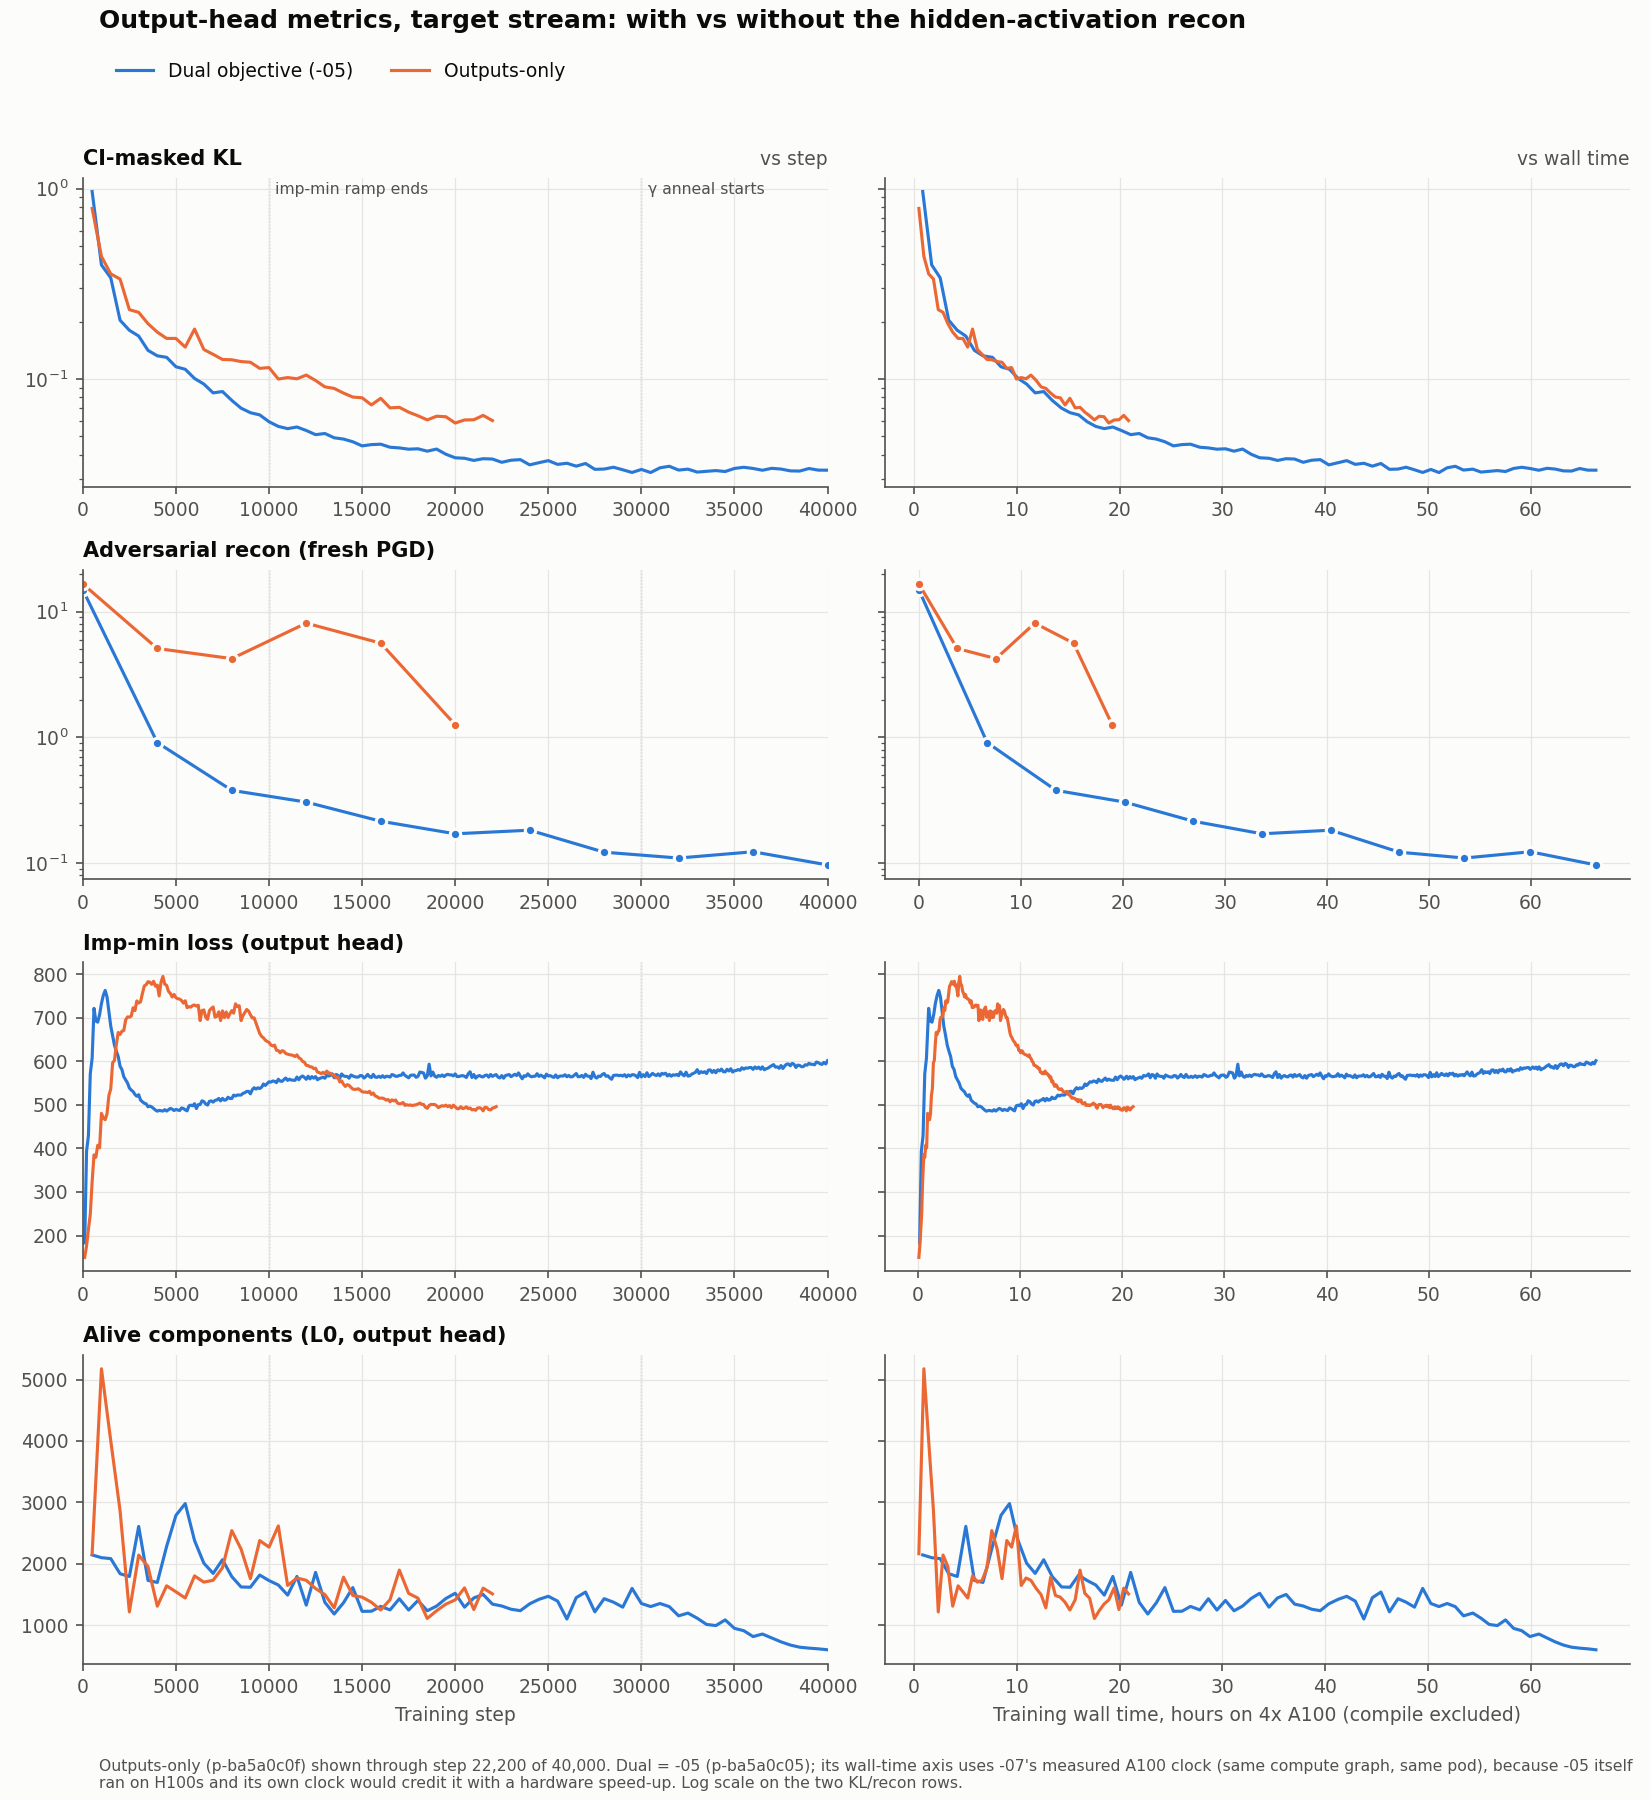
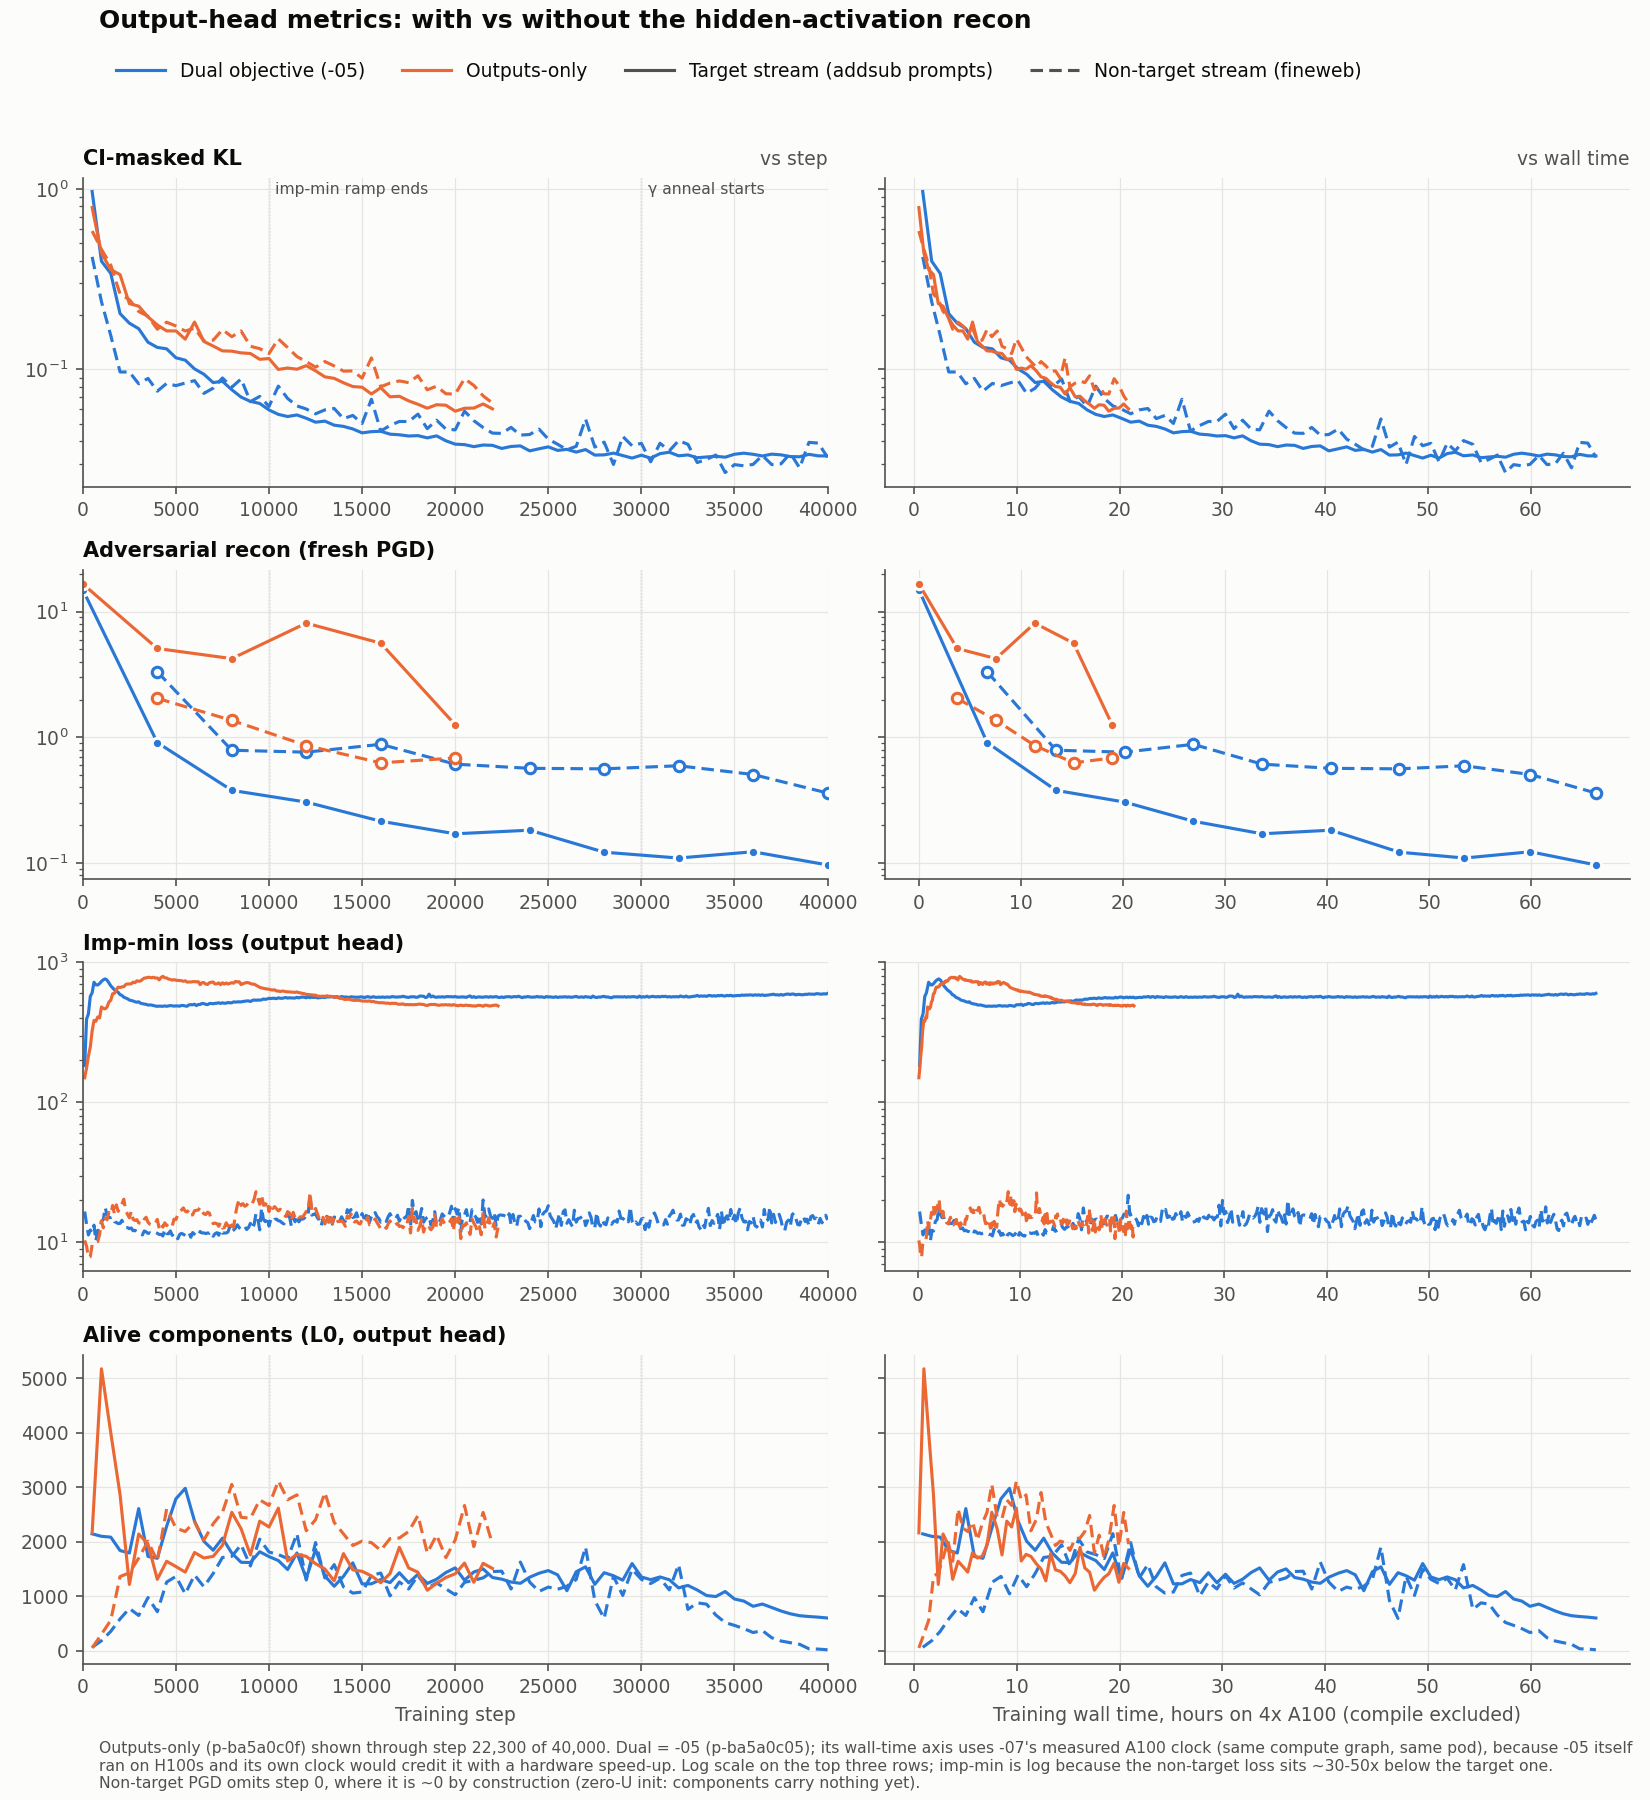
notes(dual_objective): add the non-target stream to the outputs-only plot
Each panel now carries the non-target (fineweb) stream as dashed lines beside
the target stream, same key under nontarget_data/. Colour stays the run and
line style is the stream, with a four-entry legend that separates the two
encodings; the sparse PGD row also uses hollow markers for non-target so the
stream does not rely on the dash alone.

The imp-min row goes log-scale: the non-target loss sits ~30-50x below the
target one and a linear axis would flatten it to zero. Non-target PGD omits
step 0, where it is ~0 by construction under the zero-U init and would read
as -inf on the log axis.

diff --git a/notes/dual_objective/addsub-all-layers/plot_outputs_only_vs_dual.py b/notes/dual_objective/addsub-all-layers/plot_outputs_only_vs_dual.py
@@ -4,10 +4,14 @@ by wall time on the SAME hardware.
 
     python plot_outputs_only_vs_dual.py            # reads ~/out/pod-backup, writes plots/
 
-Four output-head metrics, target stream: CI-masked KL (`eval/ce_kl/kl_ci_masked`, the arm
+Four output-head metrics: CI-masked KL (`eval/ce_kl/kl_ci_masked`, the arm
 CIMaskedReconLoss emits in a single-role run), the fresh-PGD adversarial recon eval
 (`eval/loss/PGDReconLoss`), the output head's imp-min loss (`train/loss/
-ImportanceMinimalityLoss`) and the alive count (`eval/l0/0.0_total`).
+ImportanceMinimalityLoss`) and the alive count (`eval/l0/0.0_total`). Each is drawn for the
+TARGET stream (solid, the addsub prompt pool) and the NON-TARGET stream (dashed, fineweb;
+the same key under `nontarget_data/`), on one shared axis per panel. The imp-min row is
+log-scale: the non-target loss runs ~30-50x below the target one, and a linear axis would
+flatten it to zero.
 
 THE WALL-TIME AXIS IS A100 TIME FOR BOTH RUNS. -05 itself ran on 4x H100 (~2.55 s/step);
 outputs-only runs on 4x A100. Plotting each on its own clock would credit -05 with a ~2.3x
@@ -29,6 +33,7 @@ import matplotlib
 
 matplotlib.use("Agg")
 import matplotlib.pyplot as plt  # noqa: E402
+from matplotlib.lines import Line2D  # noqa: E402
 
 HERE = Path(__file__).resolve().parent
 BACKUP = Path.home() / "out" / "pod-backup"
@@ -37,12 +42,34 @@ BACKUP = Path.home() / "out" / "pod-backup"
 DUAL, OUT_ONLY = "#2a78d6", "#eb6834"
 SURFACE, INK, INK_2, GRID = "#fcfcfb", "#0b0b0b", "#52514e", "#e6e5e1"
 
+# (target key, non-target key, title, log y)
 METRICS = [
-    ("eval/ce_kl/kl_ci_masked", "CI-masked KL", True),
-    ("eval/loss/PGDReconLoss", "Adversarial recon (fresh PGD)", True),
-    ("train/loss/ImportanceMinimalityLoss", "Imp-min loss (output head)", False),
-    ("eval/l0/0.0_total", "Alive components (L0, output head)", False),
+    (
+        "eval/ce_kl/kl_ci_masked",
+        "eval/nontarget_data/ce_kl/kl_ci_masked",
+        "CI-masked KL",
+        True,
+    ),
+    (
+        "eval/loss/PGDReconLoss",
+        "eval/nontarget_data/loss/PGDReconLoss",
+        "Adversarial recon (fresh PGD)",
+        True,
+    ),
+    (
+        "train/loss/ImportanceMinimalityLoss",
+        "train/nontarget_data/loss/ImportanceMinimalityLoss",
+        "Imp-min loss (output head)",
+        True,
+    ),
+    (
+        "eval/l0/0.0_total",
+        "eval/nontarget_data/l0/0.0_total",
+        "Alive components (L0, output head)",
+        False,
+    ),
 ]
+TARGET_LS, NONTARGET_LS = "-", (0, (4, 2))
 
 
 def load(path: Path) -> dict[int, dict[str, Any]]:
@@ -131,30 +158,39 @@ def main() -> None:
         }
     )
     fig, axes = plt.subplots(len(METRICS), 2, figsize=(11, 12), sharey="row")
-    runs = [("Dual objective (-05)", dual, clk_dual, DUAL), ("Outputs-only", oo, clk_oo, OUT_ONLY)]
+    runs = [(dual, clk_dual, DUAL), (oo, clk_oo, OUT_ONLY)]  # labels live in the legend
 
-    for row, (key, title, logy) in enumerate(METRICS):
+    for row, (key, nt_key, title, logy) in enumerate(METRICS):
         sparse = key == "eval/loss/PGDReconLoss"
         for col in range(2):
             ax = axes[row, col]
-            for name, rows, clk, color in runs:
-                pts = series(rows, key)
-                if col == 1:
-                    pts = [(t, v) for s, v in pts if (t := at_time(clk, s)) is not None]
-                if not pts:
-                    continue
-                xs, ys = zip(*pts, strict=True)
-                ax.plot(
-                    xs,
-                    ys,
-                    color=color,
-                    lw=1.5,
-                    label=name,
-                    marker="o" if sparse else None,
-                    ms=5,
-                    mec=SURFACE,
-                    mew=1.5,
-                )
+            for rows, clk, color in runs:
+                for k, ls, nontarget in ((key, TARGET_LS, False), (nt_key, NONTARGET_LS, True)):
+                    pts = series(rows, k)
+                    if sparse and nontarget:
+                        # Step-0 non-target PGD is ~0 by construction (zero-U init: the
+                        # components carry nothing, so no mask can break the recon). On a
+                        # log axis it reads as -inf and stretches the row to 1e-3.
+                        pts = [(s, v) for s, v in pts if s > 0]
+                    if col == 1:
+                        pts = [(t, v) for s, v in pts if (t := at_time(clk, s)) is not None]
+                    if not pts:
+                        continue
+                    xs, ys = zip(*pts, strict=True)
+                    # Non-target: dashed, and hollow markers on the sparse row, so the stream
+                    # reads without relying on the dash alone.
+                    ax.plot(
+                        xs,
+                        ys,
+                        color=color,
+                        ls=ls,
+                        lw=1.5,
+                        marker="o" if sparse else None,
+                        ms=5,
+                        mec=color if nontarget else SURFACE,
+                        mfc=SURFACE if nontarget else color,
+                        mew=1.5,
+                    )
             if logy:
                 ax.set_yscale("log")
             ax.grid(True, color=GRID, lw=0.6)
@@ -182,19 +218,26 @@ def main() -> None:
     axes[0, 0].set_title("vs step", loc="right", color=INK_2, fontsize=9)
     axes[0, 1].set_title("vs wall time", loc="right", color=INK_2, fontsize=9)
 
-    handles, labels = axes[0, 0].get_legend_handles_labels()
+    # Two independent encodings, so two legend groups: colour = run, line style = stream.
+    # The stream samples are drawn in neutral ink so they claim no run.
+    handles = [
+        Line2D([], [], color=DUAL, lw=1.5, label="Dual objective (-05)"),
+        Line2D([], [], color=OUT_ONLY, lw=1.5, label="Outputs-only"),
+        Line2D([], [], color=INK_2, lw=1.5, ls=TARGET_LS, label="Target stream (addsub prompts)"),
+        Line2D([], [], color=INK_2, lw=1.5, ls=NONTARGET_LS, label="Non-target stream (fineweb)"),
+    ]
     fig.legend(
-        handles,
-        labels,
+        handles=handles,
         loc="upper left",
         bbox_to_anchor=(0.06, 0.975),
-        ncol=2,
+        ncol=4,
         frameon=False,
         fontsize=9,
         labelcolor=INK,
+        handlelength=2.6,
     )
     fig.suptitle(
-        "Output-head metrics, target stream: with vs without the hidden-activation recon",
+        "Output-head metrics: with vs without the hidden-activation recon",
         x=0.06,
         y=0.995,
         ha="left",
@@ -207,7 +250,9 @@ def main() -> None:
         0.005,
         f"Outputs-only (p-ba5a0c0f) shown through step {oo_last:,} of 40,000. Dual = -05 (p-ba5a0c05); its "
         "wall-time axis uses -07's measured A100 clock (same compute graph, same pod), because -05 itself\n"
-        "ran on H100s and its own clock would credit it with a hardware speed-up. Log scale on the two KL/recon rows.",
+        "ran on H100s and its own clock would credit it with a hardware speed-up. Log scale on the top three rows; "
+        "imp-min is log because the non-target loss sits ~30-50x below the target one.\n"
+        "Non-target PGD omits step 0, where it is ~0 by construction (zero-U init: components carry nothing yet).",
         fontsize=7.5,
         color=INK_2,
         va="bottom",
